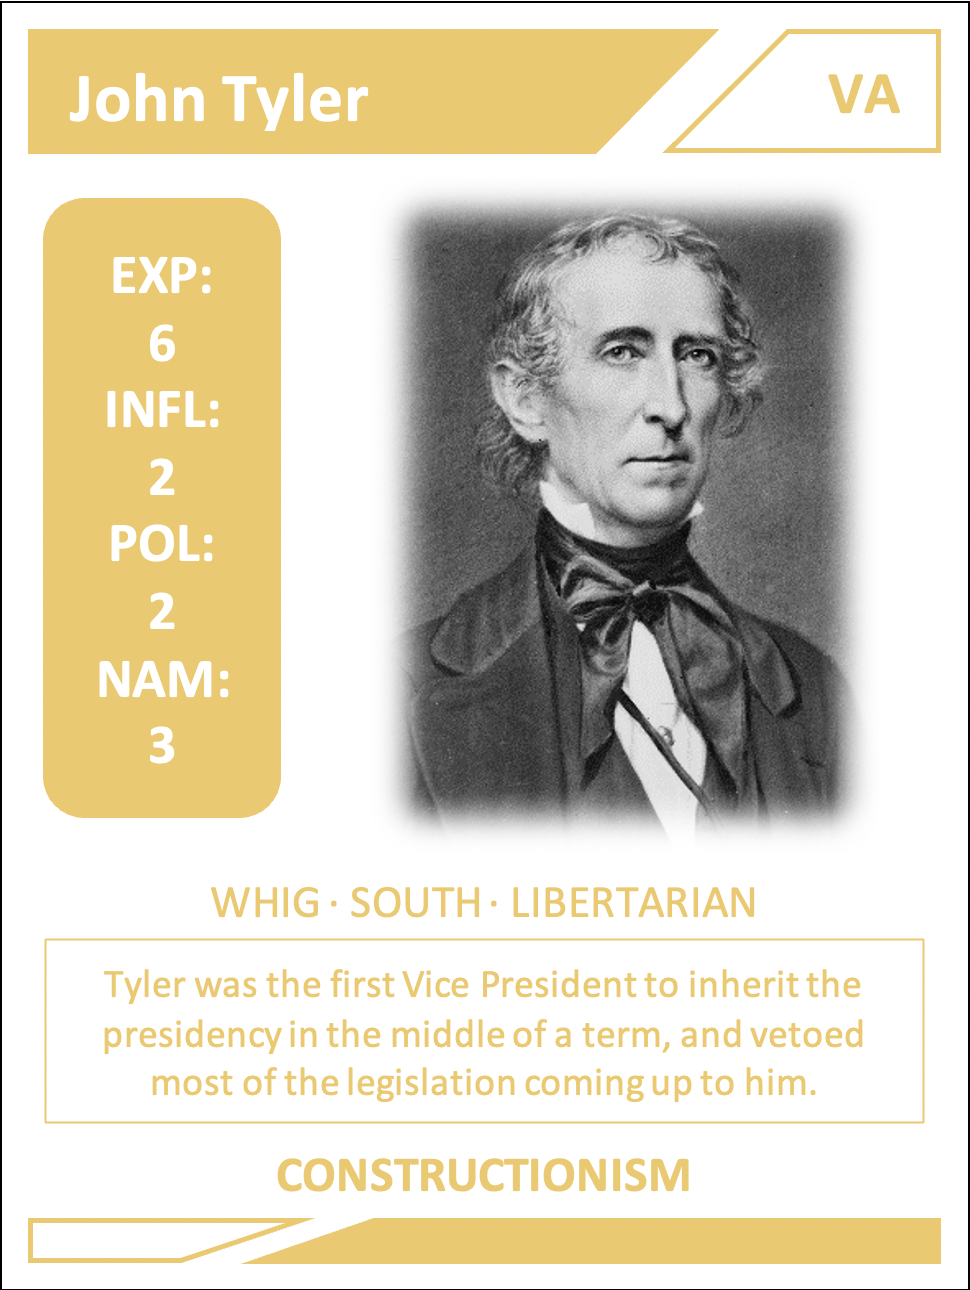
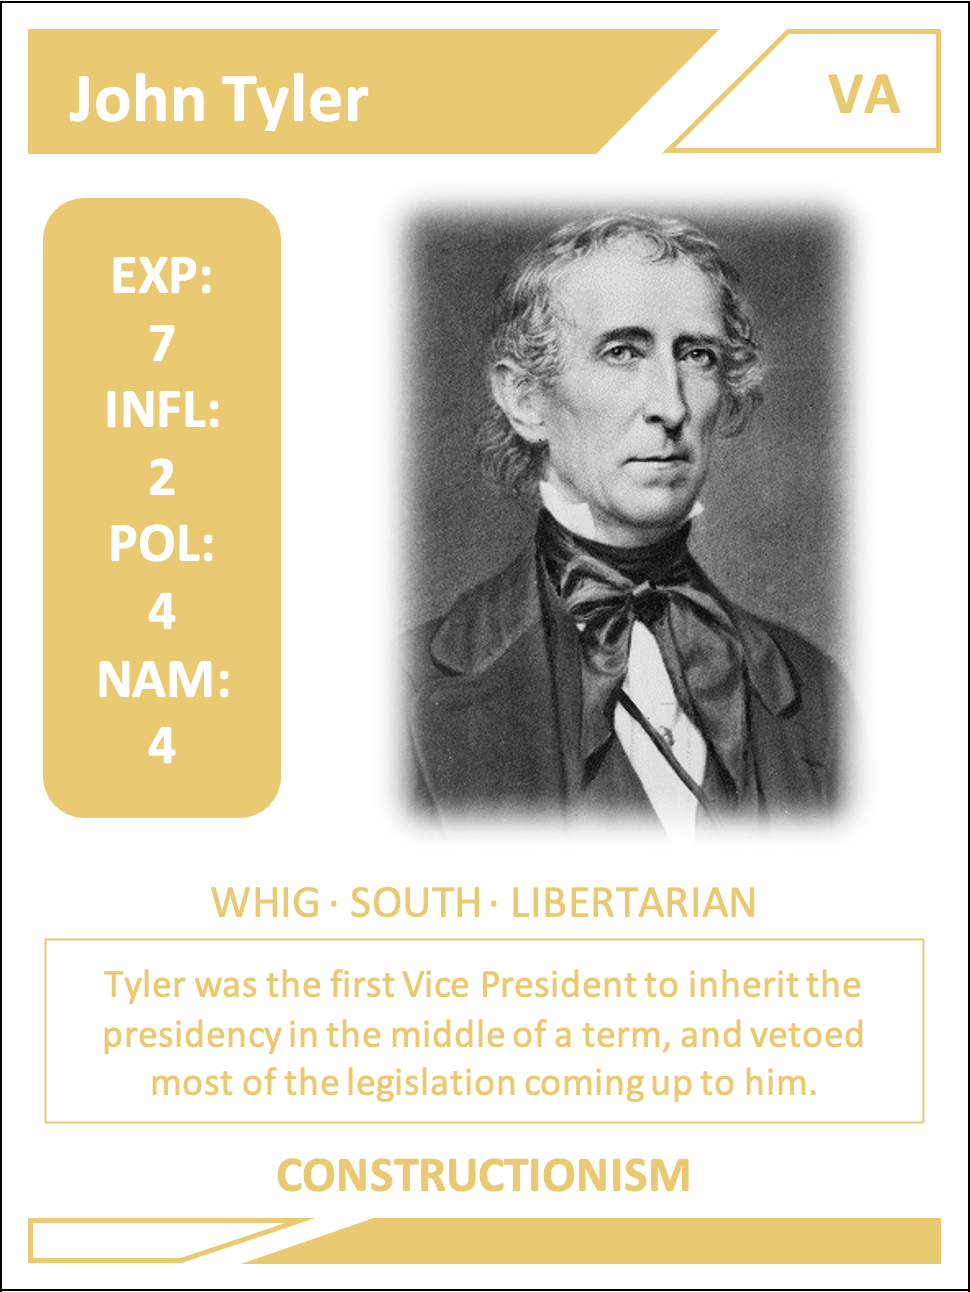
1/23 12:15 am Kevin Mac

diff --git a/Election Game/src/main/java/org/cis120/electiongame/CardData.java b/Election Game/src/main/java/org/cis120/electiongame/CardData.java
@@ -102,7 +102,7 @@ public class CardData {
             new String[]{"President", "Progressive Era"}
     );
     static President millardFillmore = new President(
-            "Millard Fillmore", "Northeast", 4, 1, 5, 2, "Conservative", "Traditional Morality",
+            "Millard Fillmore", "Northeast", 4, 2, 6, 4, "Conservative", "Closed Borders",
             new String[]{"President", "Civil War Era"}
     );
     static President robertATaft = new President(
@@ -198,7 +198,7 @@ public class CardData {
             new String[]{"President", "Civil Rights Era"}
     );
     static President johnTyler = new President(
-            "John Tyler", "South", 6, 2, 4, 4, "Libertarian", "Constructionism",
+            "John Tyler", "South", 7, 2, 4, 4, "Libertarian", "Constructionism",
             new String[]{"President", "Jacksonian Era"}
     );
     static President jamesKPolk = new President(
@@ -206,7 +206,7 @@ public class CardData {
             new String[]{"President", "Jacksonian Era"}
     );
     static President zacharyTaylor = new President(
-            "Zachary Taylor", "Northeast", 1, 3, 1, 6, "Conservative", "Nationalism",
+            "Zachary Taylor", "Northeast", 1, 5, 1, 7, "Conservative", "Nationalism",
             new String[]{"President", "Jacksonian Era"}
     );
     static President georgeWBush = new President(
@@ -2188,8 +2188,8 @@ public class CardData {
             "Robert Y. Hayne", "South", 4, 2, 5, 2, "Populist", "Free Trade",
             new String[]{"Jacksonian Era"}
     );
-    static President amosTazewell = new President(
-            "Amos Tazewell", "South", 1, 4, 4, 4, "Populist", "Anti-Central Bank",
+    static President amosKendall = new President(
+            "Amos Kendall", "South", 1, 4, 4, 4, "Populist", "Anti-Central Bank",
             new String[]{"Jacksonian Era"}
     );
     static President rogerBTaney = new President(
@@ -3196,7 +3196,7 @@ public class CardData {
         nonpresidents.add(charlesFrancisAdamsSr);
         nonpresidents.add(benjaminRobbinsCurtis);
         nonpresidents.add(robertYHayne);
-        nonpresidents.add(amosTazewell);
+        nonpresidents.add(amosKendall);
         nonpresidents.add(rogerBTaney);
         nonpresidents.add(mikePompeo);
         nonpresidents.add(jaredKushner);
